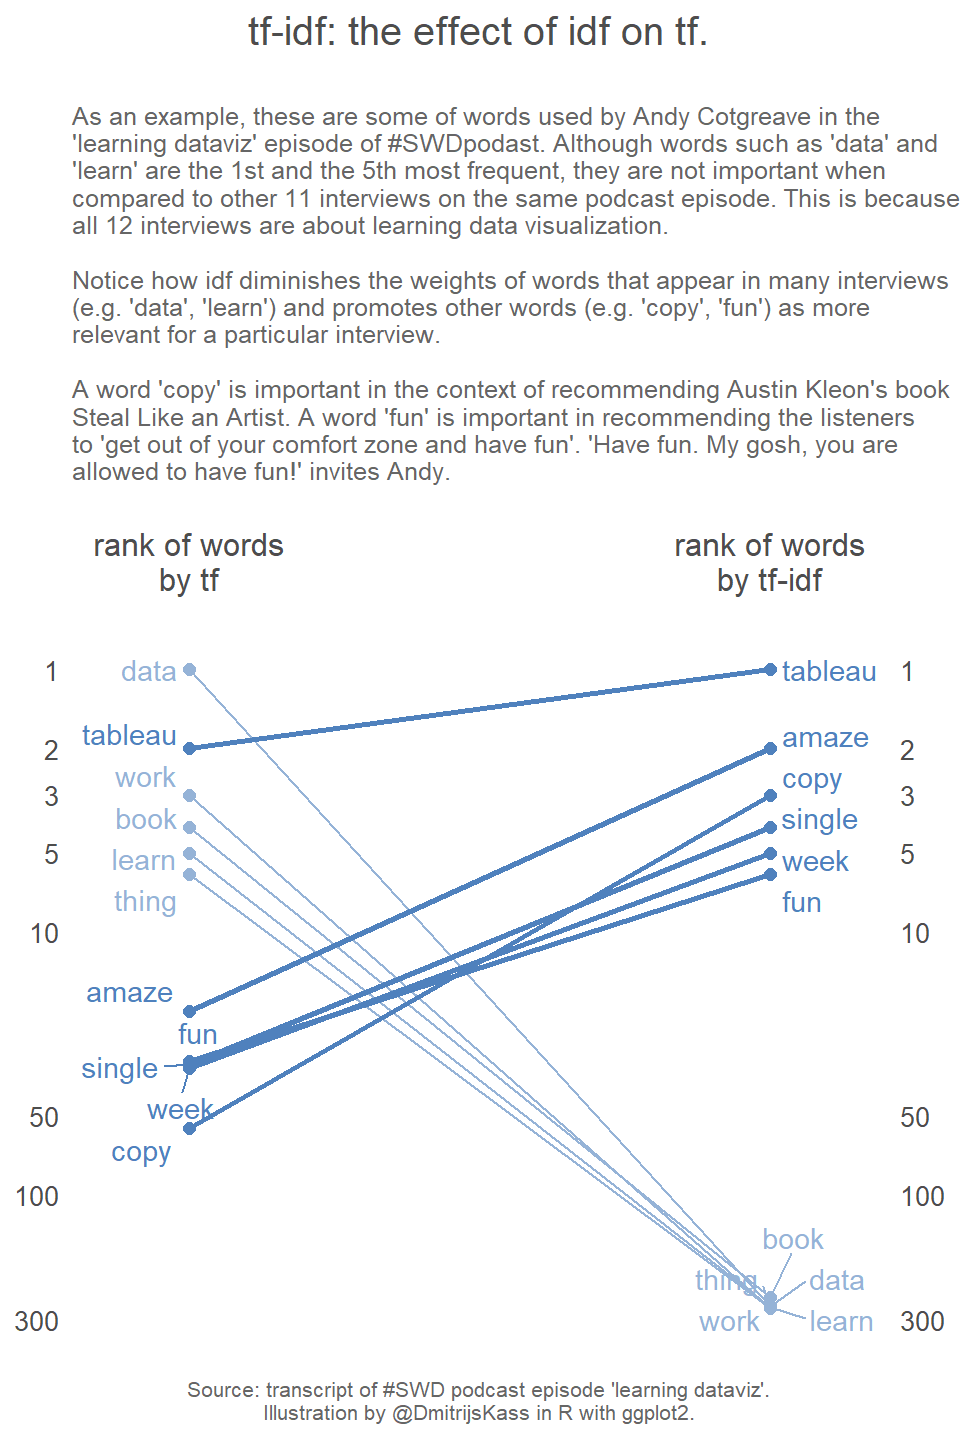
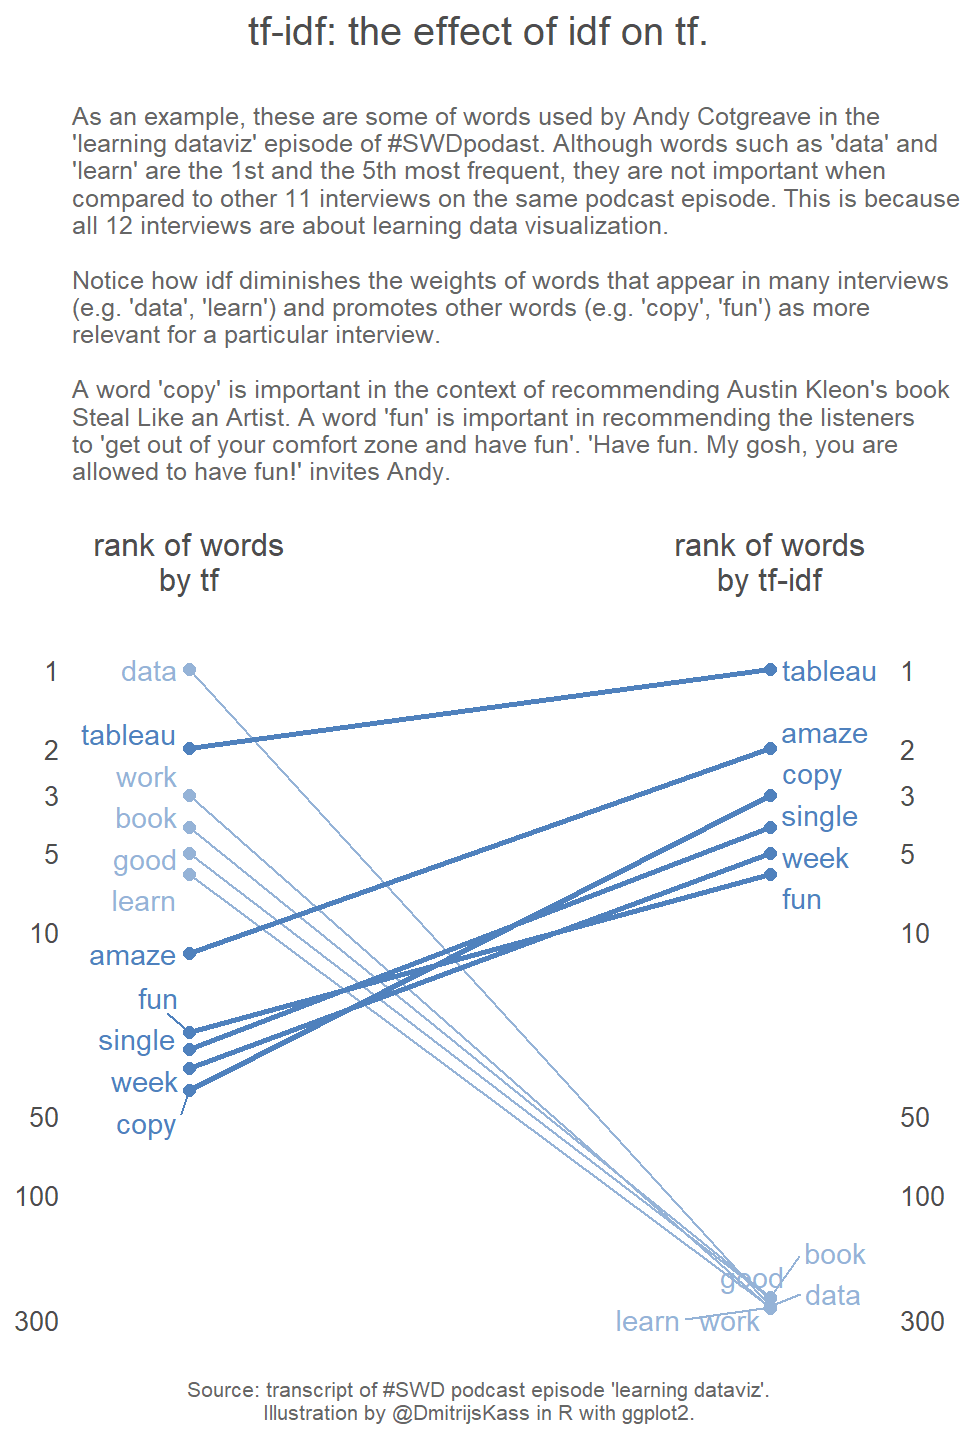
Added more examples and few minor edits.

diff --git a/content/post/2019-05-08-swdchallenge-artisanal-data.html b/content/post/2019-05-08-swdchallenge-artisanal-data.html
@@ -17,14 +17,15 @@ output:
 <div id="TOC">
 <ul>
 <li><a href="#text-cleaning">text cleaning</a></li>
-<li><a href="#tf-idf-the-effect-of-idf-on-tf">tf-idf: the effect of idf on tf</a></li>
+<li><a href="#tfidf">tf-idf: the effect of idf on tf</a></li>
 <li><a href="#about-tf-idf">about tf-idf</a></li>
 </ul>
 </div>
 
-<p>This post is a participation in <a href="http://www.storytellingwithdata.com/blog/2019/5/1/swdchallenge-artisanal-data">#SWDchallenge: artisanal data</a>.</p>
+<p>This post is a participation in <a href="http://www.storytellingwithdata.com/blog/2019/5/1/swdchallenge-artisanal-data">#SWDchallenge: artisanal data</a>. Along with that it visualizes the <strong>tf-idf - effect of multiplying tf by idf</strong>. Variations of tf-idf, term frequency-inverse document frequency, are often used by search engines and text-based recommender systems.</p>
+<hr />
 <p>I use the <a href="https://docs.google.com/document/d/1S2_63MUbvQs7fxWQrcuCNSl03fmDl1Vr3FjNjnbWK14/edit#">transcript</a> of the “learning dataviz” episode of <a href="http://www.storytellingwithdata.com/podcast">#SWDpodcast</a>, where 12 data visualization professionals share their stories and recommendations.</p>
-<p>I find a lot of wisdom and inspiration in this episode. <a href="http://www.storytellingwithdata.com/book">Storytelling with Data</a> (SWD) book has been on my shelf for over a year and it is this podcast episode that sparkled interest in me about data visualization and made me read the book in few days and start participating in data viz challenges. So I thought it would enjoy spending more time with this episode by analysing the words in it.</p>
+<p>I find a lot of wisdom and inspiration in this episode. <a href="http://www.storytellingwithdata.com/book">Storytelling with Data</a> (SWD) book has been on my shelf for over a year and it is this podcast episode that sparkled interest in me about data visualization and made me read the book in few days and start participating in data viz challenges. So I thought I would enjoy spending more time with this episode by analysing the words in it.</p>
 <p>The goal of the analysis is to visualize how importance of words changes when measured by <strong>tf</strong> (<strong>term frequency</strong>) versus <a href="http://www.tfidf.com/"><strong>tf-idf</strong> (<strong>term frequency-inverse document frequency</strong>)</a>. The latter gives higher weight to words that are “common locally and rare globally”<a href="#fn1" class="footnote-ref" id="fnref1"><sup>1</sup></a>. Here, locally means “in any single interview” and globally means “in a collection of all 12 interviews”.</p>
 <p>Analysis is performed in <a href="https://www.r-project.org/">R</a>, a free software environment for statistical computing and graphics, using the tools mainly from the <a href="https://www.tidyverse.org/">tidyverse</a> packages, including <a href="https://ggplot2.tidyverse.org/">ggplot2</a> for visualization.</p>
 <div id="text-cleaning" class="section level1">
@@ -61,25 +62,44 @@ example</code></pre>
 ## 8 in             in            TRUE     
 ## 9 r              r             TRUE</code></pre>
 </div>
-<div id="tf-idf-the-effect-of-idf-on-tf" class="section level1">
+<div id="tfidf" class="section level1">
 <h1>tf-idf: the effect of idf on tf</h1>
-<p>If you are not familiar with terms tf (term frequency) and idf (inverse document frequency) then they are described below. Otherwise, here is the illustration:</p>
+<p>If you are not familiar with terms tf (term frequency) and idf (inverse document frequency) then they are described <a href="#about-tf-idf">below</a> with examples. Otherwise, here is the illustration:</p>
 <p><img src="/post/2019-05-08-swdchallenge-artisanal-data_files/figure-html/unnamed-chunk-5-1.png" width="480" style="display: block; margin: auto;" /></p>
 </div>
 <div id="about-tf-idf" class="section level1">
 <h1>about tf-idf</h1>
 <p>Few definitions. Here, the <em>term</em> means a single word. In general, a term may be a combination of two words, a sentence, etc. A <em>document</em> is an interview - any single interview from the “learning dataviz” episode. A <em>collection of documents</em> is a collection of all 12 interviews in the same episode.</p>
 <p><strong>Term frequency (tf)</strong> measures how frequently a term occurs in a document. Since every document is different in length, it is often divided by the document length:</p>
-<p><span class="math display">\[tf(t) = \frac{\text{Number of times term t appears in a document}}{\text{Total number of terms in the document}}.\]</span>
-The shortcoming of tf is that it is calculated using each single document in isolation from other documents in the collection.</p>
+<p><span class="math display">\[tf(t) = \frac{\text{Number of times term t appears in a document}}{\text{Total number of terms in the document}}.\]</span></p>
+<p>For example, if the word “learn” is used 8 times and the interview contains 540 words then tf equals</p>
+<p><span class="math display">\[tf(learn)=8/540\approx0.015.\]</span></p>
+<p>The shortcoming of tf is that it is calculated using a single document in isolation from other documents in the collection.</p>
 <p><strong>Inverse document frequency (idf)</strong> measures how important a term is. Even if stop words were removed, high term frequency does not obligatory mean that the term is important. Idf is computed as the logarithm of the number of the documents in the collection divided by the number of documents where the specific term appears:</p>
 <p><span class="math display">\[idf(t) = log_e\left(\frac{\text{Total number of documents}}{\text{Number of documents with term t in it}}\right).\]</span></p>
-<p>For example, the “learning dataviz” episode of #SWDpodcast is, well, about learning data visualization. Naturally, words “data” and “learn” appear frequently in each of 12 interviews. Does it mean that these words are important? In describing the podcast episode - yes. In describing any particular interview from this episode - no, because all interviewees use these two words.</p>
-<p>Mathematically, if the word “learn” appears in all 12 interviews then its idf is zero:</p>
-<p><span class="math display">\[log_e(12/12)=log_e(1)=0\]</span></p>
-<p>Other words that have zero idf in this analysis are <em>data, year, learn, make, thing, work</em>.</p>
-<p><strong>Term frequency-inverse document frequency (tf-idf)</strong> is a multiplication of tf and idf.</p>
-<p>Notice that the value of a term’s tf is local (document-specific), while its idf is global (single value within a collection of documents). For example, <strong>tf</strong> of the word <em>“learn”</em> in one interview is 0.01, in another it is 0.02. Its <strong>idf</strong> is constant within the collection of interviews - zero. Therefore, no matter how often it appears in an any single interview, its <strong>tf-idf</strong> is always zero. And it has the lowest rank in the list of important words, measured by tf-idf - exactly as in the plot above.</p>
+<p>The “learning dataviz” episode of #SWDpodcast is, well, about learning data visualization. Naturally, the word “learn” appears at least once in each of 12 interviews. Does it mean that this word is important? In describing the podcast episode - yes. In describing any particular interview from this episode - no, because all interviewees use the word “learn”.</p>
+<p>The word “learn” appears in all 12 interviews, so its idf is zero:</p>
+<p><span class="math display">\[idf(learn)=log_e(12/12)=log_e(1)=0\]</span></p>
+<p>It means that the word is not important in describing the interview. Other words that have zero importance here are <em>data, year, make, thing, work</em>.</p>
+<p><strong>Term frequency-inverse document frequency (tf-idf)</strong> is a multiplication of tf and idf:</p>
+<p><span class="math display">\[tfidf(t) = tf(t) \times idf(t).\]</span></p>
+<p>It does not matter how high <span class="math inline">\(tf(learn)\)</span> is, if <span class="math inline">\(idf(learn)=0\)</span>, its <span class="math inline">\(tfidf(learn)\)</span> will also be zero.</p>
+<p>Notice that the value of a term’s tf is <strong>local</strong> (document-specific), while its idf is <strong>global</strong> (single value within a collection of documents). For example, tf of the word “learn” in Andy’s interview is 0.015 and 0.001 Jeffrey’s interview. Its idf is constant within the collection of interviews - zero. Therefore, no matter how often it appears in an any single interview, its tf-idf is always zero. And it has the lowest rank in the list of important words, measured by tf-idf - exactly as in the plot <a href="#tfidf">above</a>.</p>
+<p>Here is the data used for plotting:</p>
+<pre><code>## # A tibble: 11 x 8
+##    word_lemma  freq total_words    tf   idf tf_idf tf_rank tfidf_rank
+##    &lt;chr&gt;      &lt;int&gt;       &lt;int&gt; &lt;dbl&gt; &lt;dbl&gt;  &lt;dbl&gt;   &lt;int&gt;      &lt;int&gt;
+##  1 data          21         540 0.039 0      0           1        266
+##  2 tableau       11         540 0.02  0.875  0.018       2          1
+##  3 work          10         540 0.019 0      0           3        271
+##  4 book           9         540 0.017 0.087  0.001       4        246
+##  5 good           8         540 0.015 0.087  0.001       5        248
+##  6 learn          8         540 0.015 0      0           6        268
+##  7 amaze          5         540 0.009 1.79   0.017      12          2
+##  8 fun            4         540 0.007 1.39   0.01       24          6
+##  9 single         4         540 0.007 1.79   0.013      28          4
+## 10 week           4         540 0.007 1.79   0.013      33          5
+## 11 copy           3         540 0.006 2.48   0.014      40          3</code></pre>
 <p><br></p>
 <p><strong>References:</strong></p>
 <ul>
@@ -87,7 +107,7 @@ The shortcoming of tf is that it is calculated using each single document in iso
 <li>R code for this blog post is available at my <a href="https://github.com/dmitrijsk/blogdown-dmitrijskass/blob/redo-swd-artisanal-data/content/post/2019-05-08-swdchallenge-artisanal-data.R">GitHub repository</a>.</li>
 </ul>
 <p><br></p>
-<p>Did you find this post interesting or useful? If not, I’d be glad to improve it. Please leave a comment below, no login required if you check “I’d rather post as a guest”.</p>
+<p>Any comments or suggestions? I’d be glad to know! Please leave them below, no login required if you check “I’d rather post as a guest”.</p>
 </div>
 <div class="footnotes">
 <hr />
